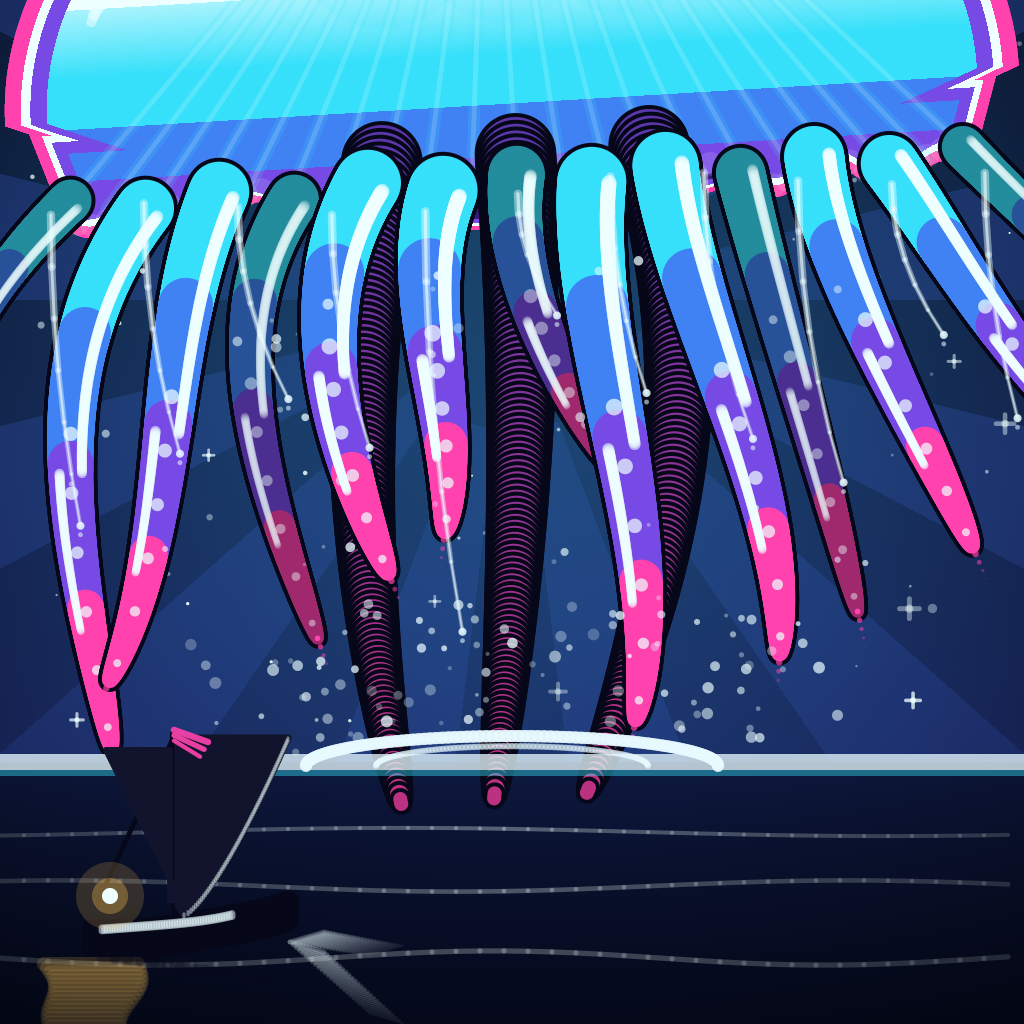
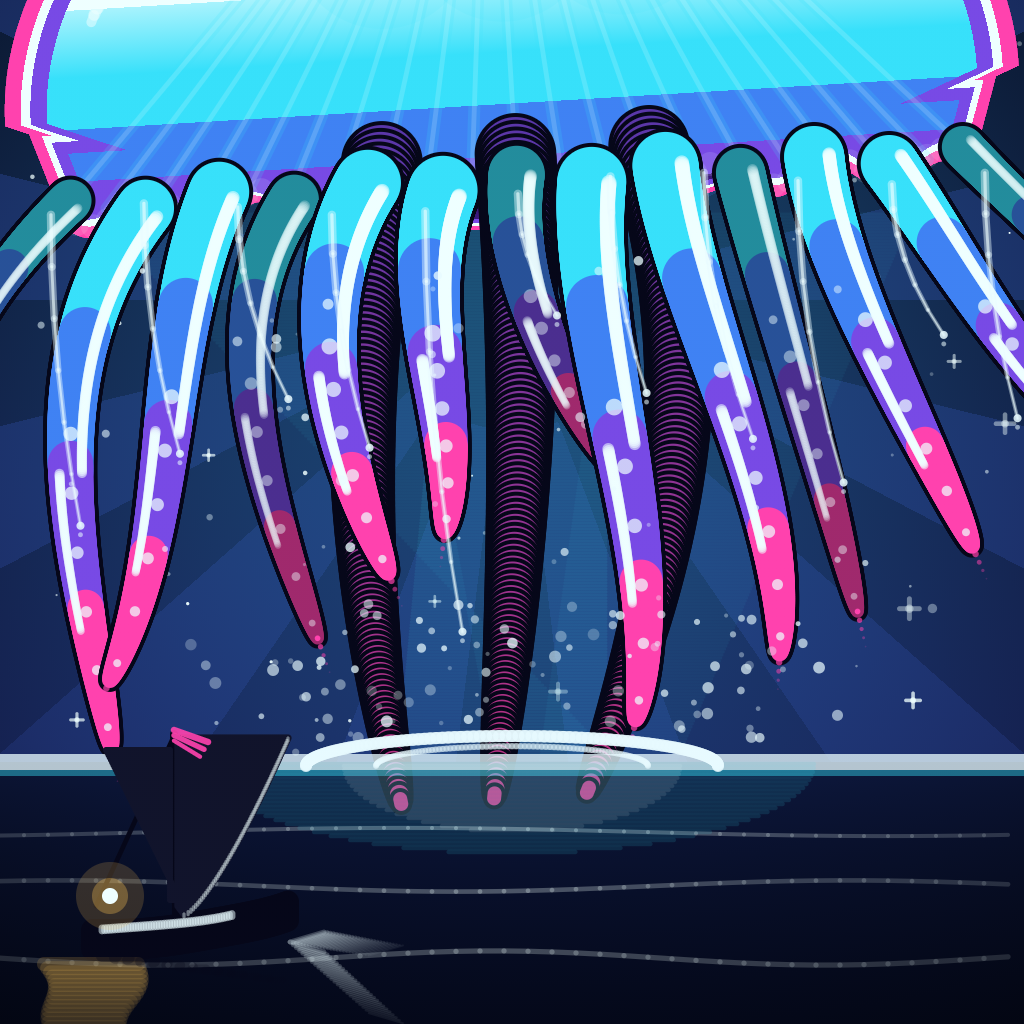
make the light from the bell read: hard cones down to the surface, a flat pool of light on the water

Changed region(s): [[0.25, 0.6875, 0.7812, 0.8438]]

diff --git a/main.ts b/main.ts
@@ -202,7 +202,27 @@ for (let i = 0; i < 95; i++) {
 }
 
 // ---------------------------------------------------------------------------
-// 2. the creature, filling the top of the frame and cut off by it
+// 2. the shaft of light it drags down out of the bell: the axis of the picture
+// ---------------------------------------------------------------------------
+
+// three defined cones of light falling from the bell to the surface: the axis of
+// the picture, drawn with hard edges like every other shape here
+const CONES = [
+  [-268, -150, 44, 60, 0.055],
+  [16, 78, -10, 104, 0.085],
+  [252, 148, 96, 68, 0.05],
+];
+for (const c of CONES) {
+  for (let y = 214; y < HORIZON; y += 3) {
+    const t = (y - 214) / (HORIZON - 214);
+    const cx = 512 + c[0] + (c[2] - c[0]) * t;
+    const hw = c[1] + (c[3] - c[1]) * t;
+    solidSegment(cx - hw, y, cx + hw, y, 1.4, CYAN[0], CYAN[1], CYAN[2], c[4]);
+  }
+}
+
+// ---------------------------------------------------------------------------
+// 3. the creature, filling the top of the frame and cut off by it
 // ---------------------------------------------------------------------------
 
 const CX = 512;
@@ -476,6 +496,17 @@ for (let k = 1; k < 6; k++) {
     }
     prev = [x, y];
   }
+}
+// where the light lands: a flat pool of it on the water under the creature
+for (let y = HORIZON + 2; y < HORIZON + 92; y += 4) {
+  const u = (y - (HORIZON + 2)) / 90;
+  const hw = 302 * Math.sqrt(Math.max(0, 1 - u * u));
+  solidSegment(CX - hw, y, CX + hw, y, 2.2, CYAN[0], CYAN[1], CYAN[2], 0.11);
+}
+for (let y = HORIZON + 4; y < HORIZON + 70; y += 4) {
+  const u = (y - (HORIZON + 4)) / 66;
+  const hw = 168 * Math.sqrt(Math.max(0, 1 - u * u));
+  solidSegment(CX - hw, y, CX + hw, y, 2.2, ICE[0], ICE[1], ICE[2], 0.09);
 }
 // the dark hole where it tore through, ringed with foam and spray
 for (let i = 0; i < 2; i++) {
